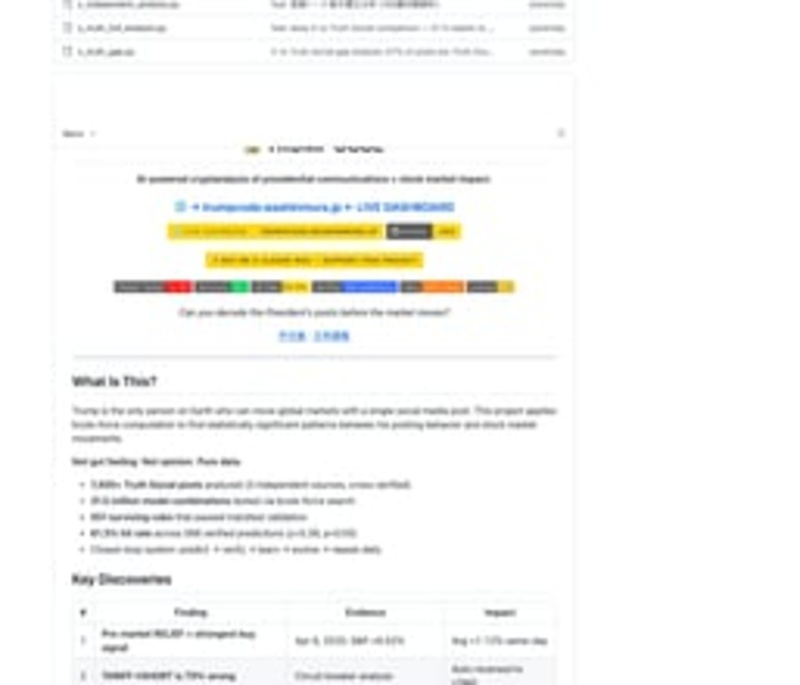
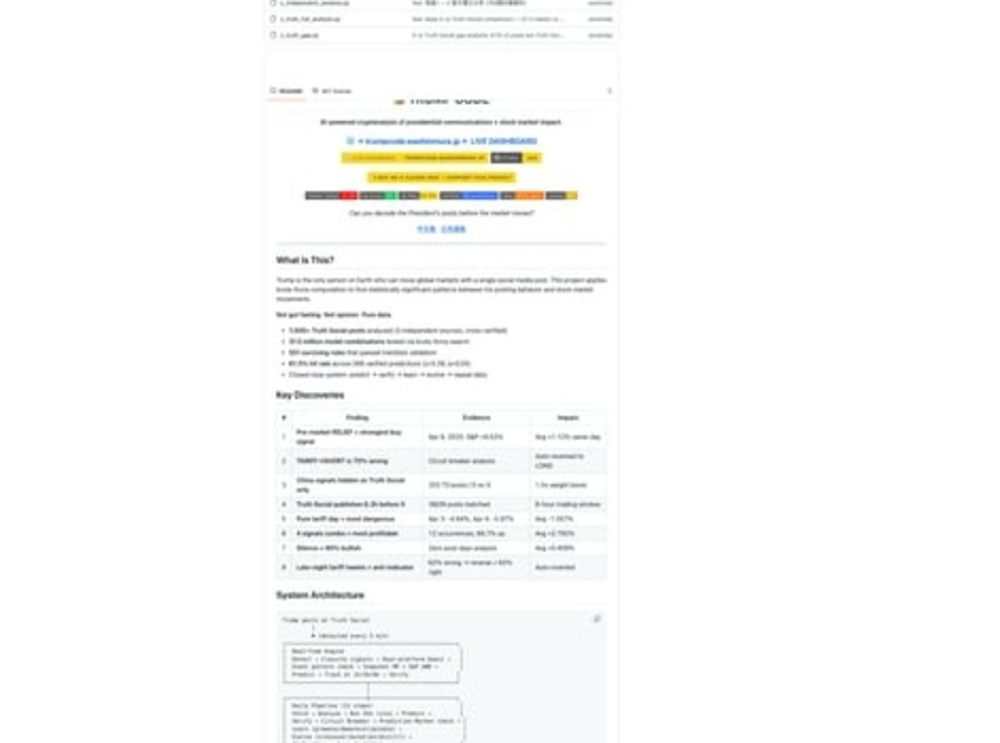
V5: Higher resolution screenshots (1000px wide)
- All screenshots now 1000px wide for better clarity
- Cropped to show README content (Logo + description + key sections)
- Removed file list and empty browser chrome
- CSS updated for full-width images like WeChat articles

diff --git a/assets/wechat-style.css b/assets/wechat-style.css
@@ -1,4 +1,4 @@
-/* GitHub 新星速报 - 微信公众号风格 */
+/* GitHub 新星速报 - 微信公众号风格 V2 */
 :root {
     --bg: #ffffff;
     --text: #333333;
@@ -7,6 +7,7 @@
     --accent: #576b95;
     --code-bg: #f6f8fa;
     --highlight-bg: #fffbe6;
+    --section-blue: #1e80ff;
 }
 
 * { box-sizing: border-box; margin: 0; padding: 0; }
@@ -24,22 +25,22 @@ body {
 
 /* Header */
 .article-header {
-    text-align: center;
-    margin-bottom: 30px;
-    padding-bottom: 20px;
-    border-bottom: 1px solid var(--border);
+    margin-bottom: 24px;
 }
 
 .article-header h1 {
     font-size: 22px;
-    font-weight: 600;
+    font-weight: 700;
     line-height: 1.4;
-    margin-bottom: 12px;
+    margin-bottom: 16px;
+    text-align: left;
 }
 
 .article-header .meta {
     font-size: 14px;
     color: var(--text-muted);
+    padding-bottom: 16px;
+    border-bottom: 1px solid var(--border);
 }
 
 .article-header .meta a {
@@ -47,30 +48,45 @@ body {
     text-decoration: none;
 }
 
-/* Section Number Badge */
-.section-number {
-    display: inline-flex;
-    align-items: center;
-    justify-content: center;
-    background: linear-gradient(135deg, #667eea 0%, #764ba2 100%);
-    color: white;
-    font-size: 14px;
-    font-weight: 600;
-    width: 56px;
-    height: 28px;
-    border-radius: 14px;
-    margin-right: 8px;
+.editor-info {
+    background: linear-gradient(135deg, #667eea22 0%, #764ba222 100%);
+    padding: 12px 16px;
+    border-radius: 8px;
+    margin: 16px 0;
+    font-size: 15px;
 }
 
-.section-title {
-    display: flex;
+.editor-info strong {
+    color: var(--section-blue);
+}
+
+/* Section Number Badge - 微信风格 */
+.section-badge {
+    display: inline-flex;
     align-items: center;
     margin: 32px 0 20px;
 }
 
-.section-title h2 {
+.section-number {
+    display: inline-flex;
+    align-items: center;
+    justify-content: center;
+    background: linear-gradient(135deg, #1e80ff 0%, #0066ff 100%);
+    color: white;
+    font-size: 14px;
+    font-weight: 600;
+    font-style: italic;
+    min-width: 40px;
+    height: 26px;
+    padding: 0 12px;
+    border-radius: 13px;
+    margin-right: 12px;
+}
+
+.section-title {
     font-size: 18px;
     font-weight: 600;
+    color: var(--text);
 }
 
 /* Paragraph */
@@ -83,21 +99,22 @@ strong {
     color: var(--text);
 }
 
-/* Image */
+/* Image - 全宽显示 */
 .article-image {
-    margin: 20px 0;
+    margin: 24px -20px;
     text-align: center;
 }
 
 .article-image img {
+    width: 100%;
     max-width: 100%;
-    border-radius: 4px;
 }
 
 .article-image .caption {
     font-size: 14px;
     color: var(--text-muted);
     margin-top: 8px;
+    padding: 0 20px;
 }
 
 /* GIF Demo */
@@ -108,8 +125,7 @@ strong {
 
 .demo-gif img {
     max-width: 100%;
-    border-radius: 8px;
-    box-shadow: 0 2px 12px rgba(0,0,0,0.1);
+    border-radius: 4px;
 }
 
 .demo-gif .caption {
@@ -121,12 +137,12 @@ strong {
 /* Code Block */
 pre {
     background: var(--code-bg);
-    border-radius: 6px;
+    border-radius: 4px;
     padding: 16px;
     overflow-x: auto;
     margin: 16px 0;
     font-size: 14px;
-    line-height: 1.5;
+    line-height: 1.6;
 }
 
 code {
@@ -143,11 +159,45 @@ p code {
 /* List */
 ul, ol {
     margin: 16px 0;
-    padding-left: 24px;
+    padding-left: 0;
+    list-style: none;
 }
 
 li {
-    margin-bottom: 10px;
+    margin-bottom: 12px;
+    padding-left: 0;
+    position: relative;
+}
+
+/* 带序号的列表项 */
+.numbered-list {
+    counter-reset: item;
+}
+
+.numbered-list li {
+    padding-left: 28px;
+}
+
+.numbered-list li::before {
+    counter-increment: item;
+    content: "(" counter(item) ")";
+    position: absolute;
+    left: 0;
+    color: var(--text);
+    font-weight: 500;
+}
+
+/* 带圆点的列表项 */
+.bullet-list li {
+    padding-left: 20px;
+}
+
+.bullet-list li::before {
+    content: "•";
+    position: absolute;
+    left: 0;
+    color: var(--section-blue);
+    font-weight: bold;
 }
 
 /* Highlight Box */
@@ -163,16 +213,35 @@ li {
     color: #d48806;
 }
 
-/* Project Link */
-.project-link {
+/* Star Badge */
+.star-badge {
     display: flex;
     align-items: center;
-    gap: 8px;
+    justify-content: center;
+    gap: 16px;
+    margin: 20px 0;
+    padding: 16px;
+    background: linear-gradient(135deg, #667eea 0%, #764ba2 100%);
+    color: white;
+    border-radius: 8px;
+    font-size: 15px;
+    font-weight: 500;
+}
+
+.star-badge .stat {
+    display: flex;
+    align-items: center;
+    gap: 4px;
+}
+
+/* Project Link */
+.project-link {
     margin: 16px 0;
-    padding: 12px 16px;
-    background: var(--code-bg);
-    border-radius: 6px;
-    font-size: 14px;
+    font-size: 15px;
+}
+
+.project-link .label {
+    color: var(--text);
 }
 
 .project-link a {
@@ -181,48 +250,29 @@ li {
     word-break: break-all;
 }
 
-/* Stats Badge */
-.stats-inline {
-    display: inline-flex;
-    align-items: center;
-    gap: 16px;
-    margin: 16px 0;
-    padding: 12px 20px;
-    background: linear-gradient(135deg, #667eea 0%, #764ba2 100%);
-    color: white;
-    border-radius: 8px;
-    font-size: 15px;
+/* Component List - 核心组件 */
+.component-item {
+    margin-bottom: 16px;
 }
 
-.stats-inline .stat {
-    display: flex;
-    align-items: center;
-    gap: 4px;
-}
-
-/* Component List */
-.component-list {
-    margin: 20px 0;
-}
-
-.component-list strong {
-    color: var(--accent);
+.component-item strong {
+    color: var(--section-blue);
 }
 
 /* Footer */
 .article-footer {
     margin-top: 40px;
-    padding-top: 20px;
+    padding-top: 24px;
     border-top: 1px solid var(--border);
     text-align: center;
 }
 
-.article-footer .end-badge {
+.end-badge {
     display: inline-flex;
     align-items: center;
-    gap: 8px;
-    background: #f0f0f0;
-    padding: 8px 24px;
+    gap: 12px;
+    background: #f5f5f5;
+    padding: 10px 32px;
     border-radius: 20px;
     font-size: 14px;
     color: var(--text-muted);
@@ -249,6 +299,11 @@ li {
 
 .toc li {
     margin-bottom: 8px;
+    padding-left: 0;
+}
+
+.toc li::before {
+    display: none;
 }
 
 .toc a {
@@ -283,5 +338,9 @@ hr {
     
     .article-header h1 {
         font-size: 20px;
+    }
+    
+    .article-image {
+        margin: 24px -16px;
     }
 }
